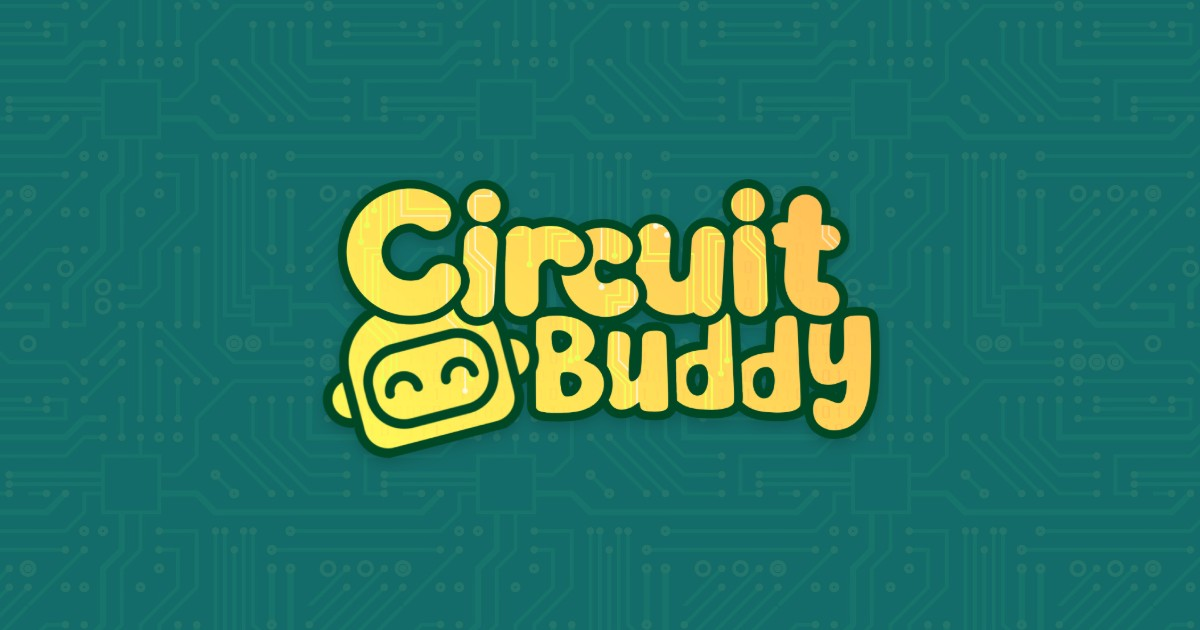
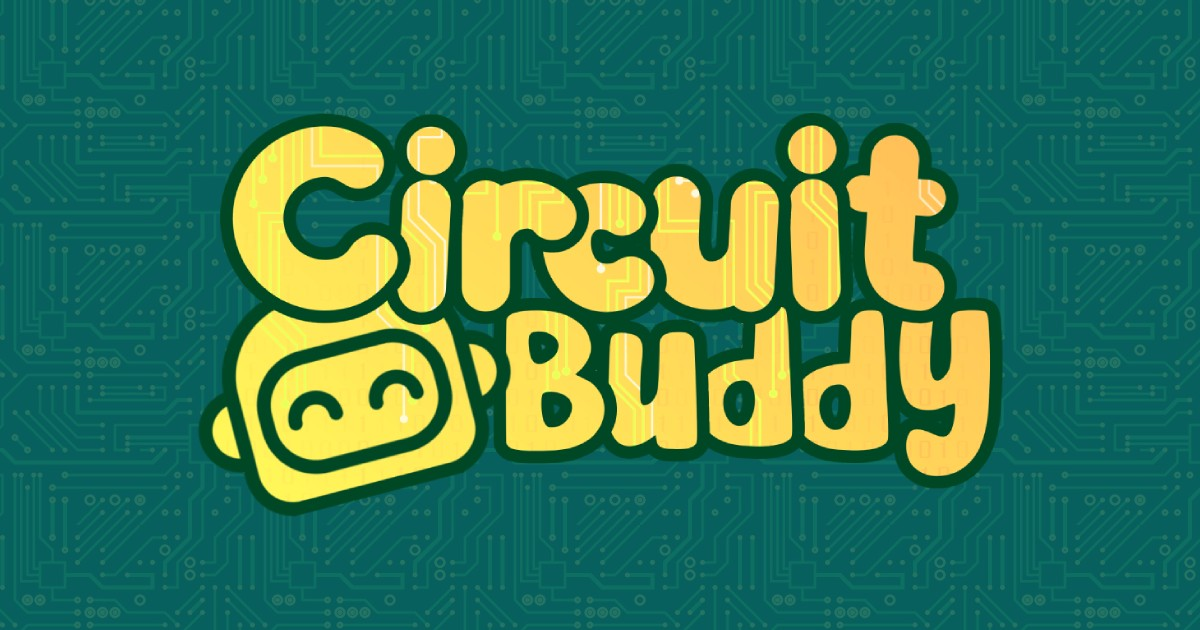
latest build

diff --git a/docs/index.html b/docs/index.html
@@ -2,19 +2,19 @@
 <html lang="en" data-beasties-container>
   <head>
     <meta charset="utf-8">
-    <title>CircuitBuddy</title>
+    <title>Circuit Buddy</title>
     <base href="/">
     <meta name="viewport" content="width=device-width, initial-scale=1">
     <link rel="icon" type="image/x-icon" href="favicon.ico">
 
     <!-- SEO -->
-    <meta name="description" content="Beginner-friendly DIY electronics kits you solder yourself — every kit ships with a real PCB, all the parts, and a step-by-step guide.">
+    <meta name="description" content="Beginner-friendly DIY electronics kits (Compatible with USB-C) — High quality PCBs, Components, Instructions and Information to assemble and improve your knowledge.">
 
     <!-- Open Graph (Facebook, LinkedIn, WhatsApp, etc.) -->
     <meta property="og:type" content="website">
     <meta property="og:site_name" content="Circuit Buddy">
     <meta property="og:title" content="Circuit Buddy — Learn Electronics with Fun">
-    <meta property="og:description" content="Beginner-friendly DIY electronics kits you solder yourself — every kit ships with a real PCB, all the parts, and a step-by-step guide.">
+    <meta property="og:description" content="Beginner-friendly DIY electronics kits (Compatible with USB-C) — High quality PCBs, Components, Instructions and Information to assemble and improve your knowledge.">
     <meta property="og:url" content="https://circuitbuddy.github.io/">
     <meta property="og:image" content="https://circuitbuddy.github.io/og-image.jpg">
     <meta property="og:image:type" content="image/jpeg">
@@ -26,7 +26,7 @@
     <!-- Twitter / X -->
     <meta name="twitter:card" content="summary_large_image">
     <meta name="twitter:title" content="Circuit Buddy — Learn Electronics with Fun">
-    <meta name="twitter:description" content="Beginner-friendly DIY electronics kits you solder yourself — every kit ships with a real PCB, all the parts, and a step-by-step guide.">
+    <meta name="twitter:description" content="Beginner-friendly DIY electronics kits (Compatible with USB-C) — High quality PCBs, Components, Instructions and Information to assemble and improve your knowledge.">
     <meta name="twitter:image" content="https://circuitbuddy.github.io/og-image.jpg">
 
     <!-- Fonts: Baloo 2 (bubbly display, matches the logo), Nunito (body), Space Mono (PCB labels) -->